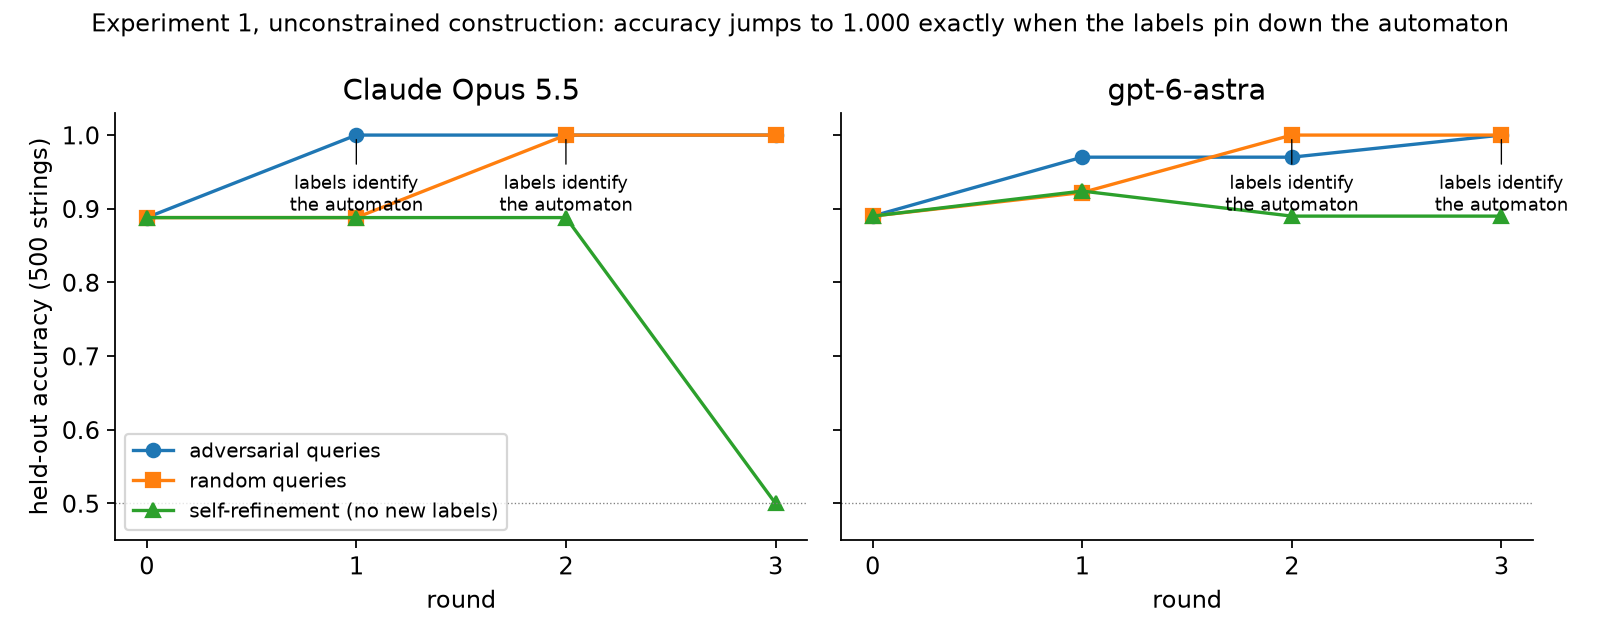
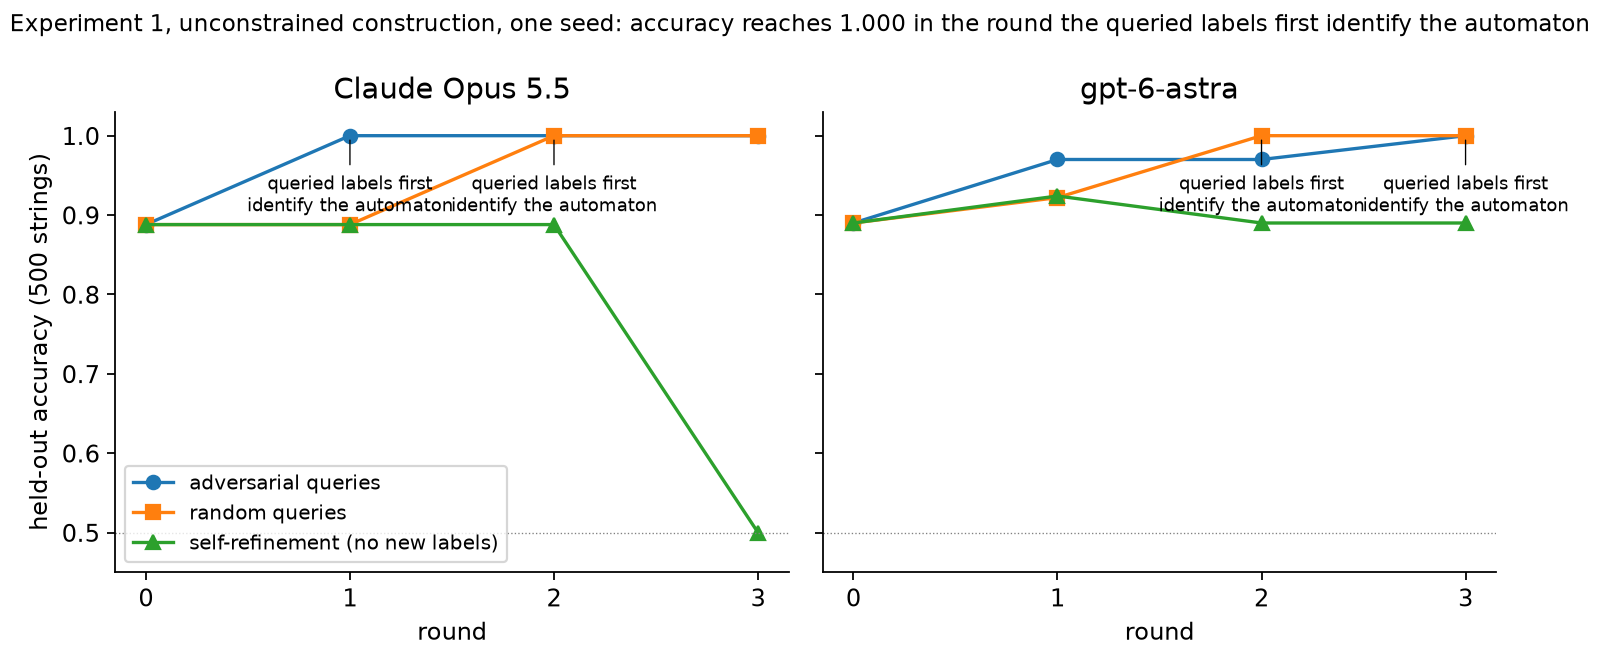
Results page: framing corrected to the evidence, visible captions, figure script, rule hash

diff --git a/docs/make_figures.py b/docs/make_figures.py
@@ -1,0 +1,80 @@
+"""Regenerate every figure on the results page from the released records.
+Run from the repository root: python docs/make_figures.py  (needs numpy and matplotlib)."""
+import json, numpy as np, matplotlib
+matplotlib.use("Agg")
+import matplotlib.pyplot as plt
+from matplotlib.patches import FancyBboxPatch, FancyArrowPatch
+R = "records/"; OUT = "docs/assets/"; F = 0.0224
+plt.rcParams.update({"font.size": 11, "axes.spines.top": False, "axes.spines.right": False})
+
+def last_round(arm):
+    rounds = arm["rounds"] if isinstance(arm, dict) else arm
+    rounds = [r for r in rounds if isinstance(r, dict) and r.get("heldout") is not None]
+    return max(rounds, key=lambda r: r.get("round", 0))["heldout"]
+
+def seed_row_from_record(path):
+    d = json.load(open(path)); a = d["arms"]
+    n = last_round(a["N"]); e = (last_round(a["E1"]) + last_round(a["E2"])) / 2; g = last_round(a["G"])
+    return {"seed": d["seed"], "D0": d["D0"], "gE": e - n, "gG": g - n}
+
+def per_seed(path):
+    d = json.load(open(path)); return {s["seed"]: s for s in d["outcome"]["seeds"] if s.get("status") == "ok"}
+
+# Figure 0: the two routes
+fig, ax = plt.subplots(figsize=(10, 4.6)); ax.set_xlim(0, 10); ax.set_ylim(0, 4.6); ax.axis("off")
+def box(x, y, w, h, text, fc, fs=10):
+    ax.add_patch(FancyBboxPatch((x, y), w, h, boxstyle="round,pad=0.08,rounding_size=0.15", fc=fc, ec="#444", lw=1))
+    ax.text(x + w / 2, y + h / 2, text, ha="center", va="center", fontsize=fs)
+def arrow(x1, y1, x2, y2):
+    ax.add_patch(FancyArrowPatch((x1, y1), (x2, y2), arrowstyle="-|>", mutation_scale=16, lw=1.4, color="#444"))
+ax.text(0.2, 4.25, "What we asked for: repair", fontsize=12, fontweight="bold", color="#4C72B0")
+box(0.2, 2.9, 2.6, 0.9, "trained network\n(321 weights) + its mistakes", "#dbe5f3"); box(3.8, 2.9, 2.4, 0.9, "read the weights,\nfind the fault", "#dbe5f3"); box(7.2, 2.9, 2.6, 0.9, "patch a few numbers:\nthe same network, fixed", "#dbe5f3")
+arrow(2.85, 3.35, 3.75, 3.35); arrow(6.25, 3.35, 7.15, 3.35)
+ax.text(0.2, 2.25, "What both models did on the tested seed: reconstruction", fontsize=12, fontweight="bold", color="#C44E52")
+box(0.2, 0.8, 2.6, 0.9, "the labelled examples\n(32 to 40 strings, embedded literally)", "#f6dcdc", fs=9.5); box(3.8, 0.8, 2.4, 0.9, "the written program searches for\nthe smallest consistent automaton", "#f6dcdc", fs=9.5); box(7.2, 0.8, 2.6, 0.9, "and writes a brand-new network\nthat encodes it", "#f6dcdc", fs=9.5)
+arrow(2.85, 1.25, 3.75, 1.25); arrow(6.25, 1.25, 7.15, 1.25)
+ax.text(5, 0.25, "Accuracy reaches 1.000 in exactly the round in which the queried labels first identify the automaton (offline SAT check).", ha="center", fontsize=9.5, style="italic")
+ax.text(5, -0.05, "The supplied weights were overwritten, not patched. Same accuracy, different question answered.", ha="center", fontsize=9.5, style="italic")
+fig.tight_layout(); fig.savefig(OUT + "fig0-reconstruction.png", dpi=160, bbox_inches="tight"); plt.close(fig)
+
+# Figure 1: construction pilot
+fig, axes = plt.subplots(1, 2, figsize=(10, 4.2), sharey=True)
+for ax, (f, title) in zip(axes, [(R + "pilot/run/results.json", "Claude Opus 5.5"), (R + "second-model/pilot-astra/results.json", "gpt-6-astra")]):
+    arms = json.load(open(f))["arms"]
+    for arm, lab, mk in [("A", "adversarial queries", "o"), ("B", "random queries", "s"), ("D", "self-refinement (no new labels)", "^")]:
+        rs = arms[arm]; x = [r["round"] for r in rs]; y = [r["heldout"] for r in rs]
+        ax.plot(x, y, marker=mk, label=lab)
+        for r in rs:
+            if (r.get("sat") or {}).get("ambiguity") == "unique":
+                ax.annotate("queried labels first\nidentify the automaton", (r["round"], r["heldout"]), textcoords="offset points", xytext=(0, -34), ha="center", fontsize=8, arrowprops=dict(arrowstyle="-", lw=0.6)); break
+    ax.set_title(title); ax.set_xlabel("round"); ax.set_xticks(x); ax.set_ylim(0.45, 1.03); ax.axhline(0.5, color="grey", lw=0.6, ls=":")
+axes[0].set_ylabel("held-out accuracy (500 strings)"); axes[0].legend(loc="lower left", fontsize=9)
+fig.suptitle("Experiment 1, unconstrained construction, one seed: accuracy reaches 1.000 in the round the queried labels first identify the automaton", fontsize=10.5)
+fig.tight_layout(); fig.savefig(OUT + "fig1-construction.png", dpi=160); plt.close(fig)
+
+# Figure 2: constrained editing
+opus = per_seed(R + "redesign/run/study.json"); opus[1] = seed_row_from_record(R + "redesign/run-seed1/seed_1.json")
+astra = per_seed(R + "second-model/repair-astra/study.json")
+seeds = [1, 15, 20, 21, 24]; x = np.arange(len(seeds)); w = 0.26
+fig, ax = plt.subplots(figsize=(9, 4.4))
+ax.bar(x - w, [opus[s]["gE"] for s in seeds], w, label="Claude Opus 5.5, numeric edits (strict output protocol)", color="#4C72B0")
+ax.bar(x, [astra[s]["gE"] for s in seeds], w, label="gpt-6-astra, numeric edits (relaxed output protocol)", color="#DD8452")
+ax.bar(x + w, [opus[s]["gG"] for s in seeds], w, label="projected Adam, gradient access, same budget", color="#55A868")
+ax.axhline(F, color="k", lw=0.8, ls="--"); ax.text(len(seeds) - 0.55, F + 0.004, "threshold f = 0.0224", fontsize=8, ha="right"); ax.axhline(0, color="grey", lw=0.6)
+ax.set_xticks(x); ax.set_xticklabels([f"seed {s}\nstart {opus[s]['D0']:.3f}" for s in seeds]); ax.set_ylabel("held-out gain after round 3 (over no edit)")
+ax.set_title("Experiment 2, constrained numeric editing\n(at most 24 edits per round, 48 distinct coordinates over three rounds, no change larger than 1.0)", fontsize=11); ax.legend(fontsize=8.5, loc="upper left")
+fig.tight_layout(); fig.savefig(OUT + "fig2-editing.png", dpi=160); plt.close(fig)
+print("figure 2 values:", {s: (round(opus[s]["gE"], 3), round(astra[s]["gE"], 3), round(opus[s]["gG"], 3)) for s in seeds})
+
+# Figure 3: search calibration
+cells = json.load(open(R + "search-calibration/study.json"))["outcome"]["cells"]
+fig, ax = plt.subplots(figsize=(7, 3.8))
+for opt, lab, mk in [("rs-random24", "sparse random search (24/48/1.0 budget)", "o"), ("rs-probe24", "sparse probe search (24/48/1.0 budget)", "s"), ("es-dense", "dense evolution strategy (ignores sparsity)", "^")]:
+    bs = sorted({c["budget"] for c in cells.values() if c["optimiser"] == opt})
+    ys = [sum(1 for v in cells[f"{opt}/B{b}"]["per_seed"].values() if v.get("repaired")) for b in bs]
+    ax.plot(bs, ys, marker=mk, label=lab)
+ax.set_xscale("log"); ax.set_xlabel("objective evaluations per round"); ax.set_ylabel("seeds repaired (of 4)"); ax.set_yticks(range(5)); ax.set_ylim(-0.2, 4.3)
+ax.axhline(3, color="k", ls="--", lw=0.8); ax.text(9000, 3.1, "criterion: 3 of 4", fontsize=8, ha="right")
+ax.set_title("Follow-up: forward-pass-only search on four development seeds"); ax.legend(fontsize=8, loc="upper left")
+fig.tight_layout(); fig.savefig(OUT + "fig3-search.png", dpi=160); plt.close(fig)
+print("done")
